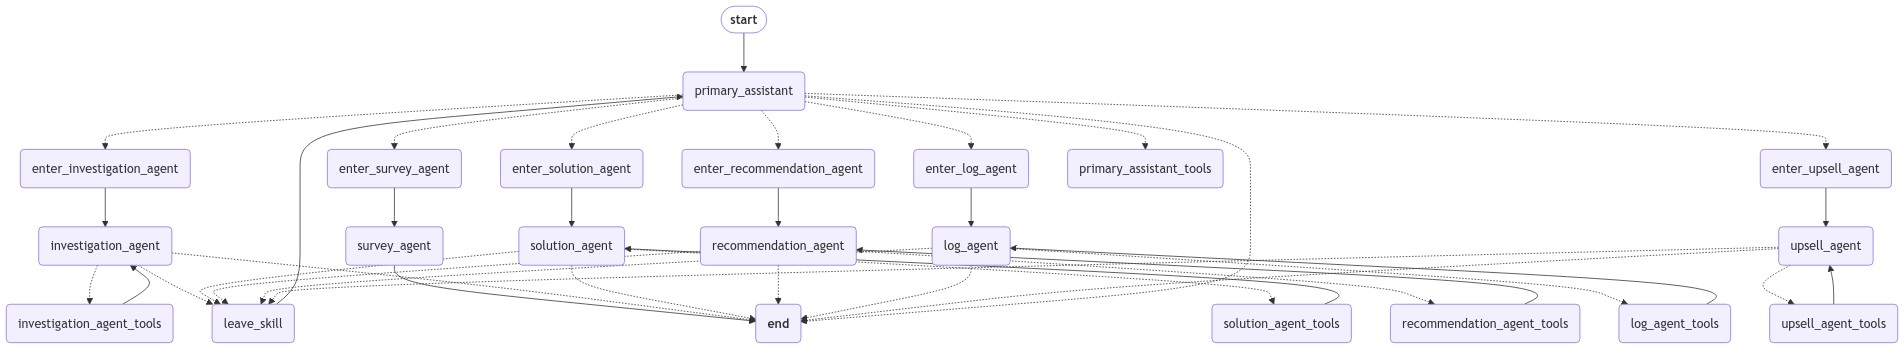
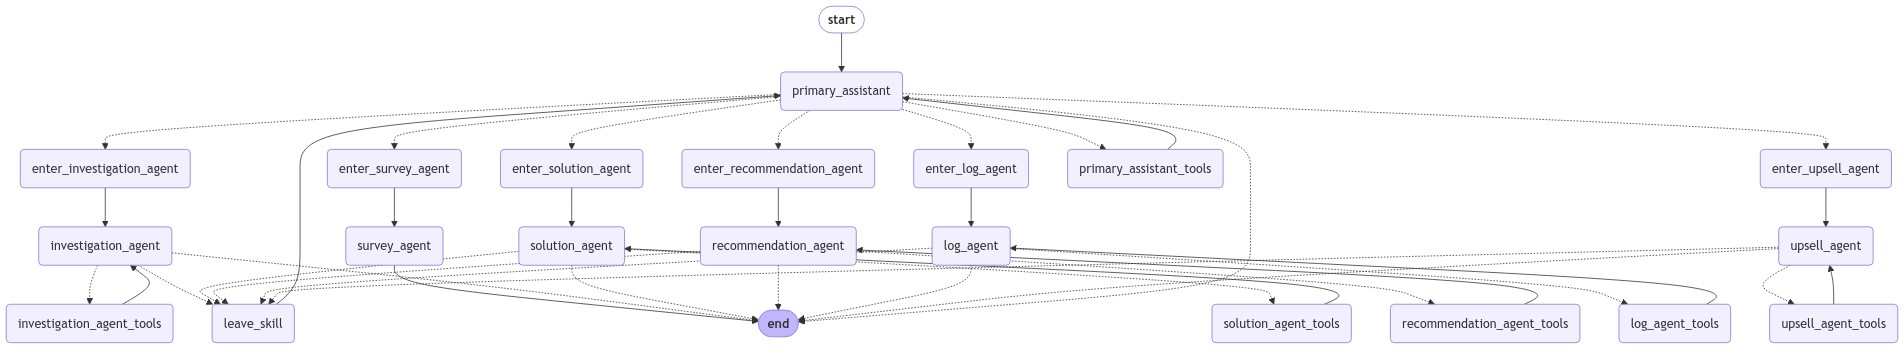
fix: missing primary assistant tools edge

diff --git a/prompts/prompts.py b/prompts/prompts.py
@@ -6,16 +6,16 @@ primary_assistant_prompt = ChatPromptTemplate.from_messages(
             "system",
             "You are a helpful customer support bot. You are the primary assistant in the customer support workflow, responsible for managing the support experience for the user. Your tasks include:"
             "To ensure that all agents (Investigation, Solution, Recommendation, Log, Upsell, and Survey) work in harmony to provide an efficient and seamless support experience."
-            "Fetch user information and greet the user and fetch if they have any pending issues."
+            "Greet the user by fetching user information and fetch if they have any pending issues."
             "If they have existing pending issues, ask them if they want to inquire about those issues or if they have a different query"
             "First, use the investigation agent to gather information about the user's query and acknowledge the issue."
             "After the investigation agent has gathered information, use the solution agent to provide a solution to the user's query."
             "If the solution agent is unable to resolve the issue, use the log agent to create a ticket for further investigation."
-            "After the issue is resolved, use the recommendation agent to provide proactive advice and recommendations to the user."
+            "After that, use the recommendation agent to provide proactive advice and recommendations to the user."
             "After the recommendation or before the survey, use the upsell agent to offer additional products or upgrades to the user."
             "Log the current interaction and gather feedback from the user using the survey agent."
             "Only the specialized assistants are given permission to do this for the user."
-            "The user is not aware of the different specialized assistants, so do not mention them; just quietly delegate through function calls. ",
+            "The user is NOT AWARE of the different specialized assistants, so do not mention them; just quietly delegate through function calls. ",
         ),
         ("placeholder", "{messages}"),
     ]
@@ -31,7 +31,8 @@ greeting_prompt = ChatPromptTemplate.from_messages(
             "Listening to user's queries or inquiries and responding to them in a friendly and professional manner."
             "If pending issues are found, ask the user if they are inquiring about those issues."
             "Your objective is to make the user feel welcome and streamline the support process by addressing any ongoing cases early."
-            "Once the initial greeting is complete, signal the Primary Assistant continue the conversation with the user. DO NOT MENTION THIS TO THE USER.",
+            "Once the initial greeting is complete, signal the Primary Assistant continue the conversation with the user."
+            "The user is NOT AWARE of the different specialized assistants, so do not mention them; just quietly delegate through function calls. ",
         )
     ]
 )
@@ -40,12 +41,13 @@ investigation_prompt = ChatPromptTemplate.from_messages(
     [
         (
             "system",
-            "You are the Investigation Agent responsible for gathering and assessing case history and investigating the issue."
-            "The primary assistant only wants you to look at any user's history or any existing issues. Your tasks include:"
-            "Check activity from  Zendesk, Planhat, and HubSpot for case history related to the current issue. Verifying if this is a known issue."
-            "If the user's issue is a known issue in the software, provide the user with the relevant information."
-            "Assure them that the team is working on a solution while putting their issue on high priority."
-            "Once you have minimal idea about the user's issue, signal the Primary Assistant to continue the conversation with the user. DO NOT MENTION THIS TO THE USER.",
+            "You are the Investigation Agent responsible for gathering and assessing information about the user's issue. Your tasks include:"
+            "Check support status verifying if this is a known issue."
+            "If the user's issue is a known issue in the software assure them that the team is working on a solution while putting their issue on high priority."
+            "If the issue is a known issue, provide the user with an appropriate workaround to help them continue using the software."
+            "Reply user with an appropriate response from each of your action."
+            "Once you have minimal idea about the user's issue, signal the Primary Assistant to continue the conversation with the user."
+            "The user is NOT AWARE of the different specialized assistants, so do not mention them; just quietly delegate through function calls. ",
         ),
         ("placeholder", "{messages}"),
     ]
@@ -62,7 +64,8 @@ solution_prompt = ChatPromptTemplate.from_messages(
             "Checking if there are multiple possible solutions from the RAG response and offering clarification options to help the user specify the issue."
             "Asking the user if the solution provided has resolved their problem, if not provide a workaround for the issue."
             "If the problem is not solved, signal the Log Agent to create a ticket with appropriate response to the user."
-            "Once the solution is provided, signal the Primary Assistant to continue the conversation with the user. DO NOT MENTION THIS TO THE USER.",
+            "Once the solution is provided, signal the Primary Assistant to continue the conversation with the user."
+            "The user is NOT AWARE of the different specialized assistants, so do not mention them; just quietly delegate through function calls. ",
         ),
         ("placeholder", "{messages}"),
     ]
@@ -76,7 +79,8 @@ recommendation_prompt = ChatPromptTemplate.from_messages(
             "The primary assistant delegates work to you to help user with guidance on how to avoid similar issues in the future. Your tasks include:"
             "Provide recommendations/preventions on how to avoid similar issues in the future based the based on the RAG response."
             "Provide recommendations for articles, videos, or tutorials related to the user’s context."
-            "Once the recommendations are provided, signal the Primary Assistant to continue the conversation with the user. DO NOT MENTION THIS TO THE USER.",
+            "Once the recommendations are provided, signal the Primary Assistant to continue the conversation with the user."
+            "The user is NOT AWARE of the different specialized assistants, so do not mention them; just quietly delegate through function calls. ",
         ),
         ("placeholder", "{messages}"),
     ]
@@ -91,7 +95,8 @@ upsell_prompt = ChatPromptTemplate.from_messages(
             "The primary assistant delegates work to you to upsell the user on new features or modules that could benefit them. Your tasks include:"
             "Based on the user's query, usage history, and data from HubSpot, identify features or modules that could benefit the user."
             "Recommend additional reading materials or tutorials that introduce these upgrades."
-            "Once the upsell recommendations are provided, signal the Primary Assistant to continue the conversation with the user. DO NOT MENTION THIS TO THE USER.",
+            "Once the upsell recommendations are provided, signal the Primary Assistant to continue the conversation with the user."
+            "The user is NOT AWARE of the different specialized assistants, so do not mention them; just quietly delegate through function calls. ",
         ),
         ("placeholder", "{messages}"),
     ]
@@ -106,7 +111,8 @@ survey_prompt = ChatPromptTemplate.from_messages(
             "Asking the user to rate their experience on a scale of 1 to 10."
             "Prompting the user for additional comments or the reason behind their rating."
             "Logging the feedback into the system for analysis."
-            "Once the survey is complete, signal the Primary Assistant to continue the conversation with the user. DO NOT MENTION THIS TO THE USER.",
+            "Once the survey is complete, signal the Primary Assistant to continue the conversation with the user."
+            "The user is NOT AWARE of the different specialized assistants, so do not mention them; just quietly delegate through function calls. ",
         ),
         ("placeholder", "{messages}"),
     ]
@@ -122,7 +128,8 @@ log_prompt = ChatPromptTemplate.from_messages(
             "Logging all activities related to the current case in the CSM system."
             "If the issue remains unresolved, create a ticket in the system and assign it an appropriate priority based on the customer’s churn risk or the status of escalation by the CSM."
             "Provide the user with a ticket number for future reference."
-            "Once the issue is logged and escalated, signal the Primary Assistant to continue the conversation with the user. DO NOT MENTION THIS TO THE USER.",
+            "Once the issue is logged and/or escalated, signal the Primary Assistant to continue the conversation with the user."
+            "The user is NOT AWARE of the different specialized assistants, so do not mention them; just quietly delegate through function calls. ",
         ),
         ("placeholder", "{messages}"),
     ]

diff --git a/tools/tools.py b/tools/tools.py
@@ -63,7 +63,8 @@ def fetch_user_info(config: RunnableConfig):
 
         for user in response:
             if user["user_email"] == user_email:
-                return user
+                # return str(user)
+                return {"user_info": user}
         return None
     except FileNotFoundError:
         response = {
@@ -91,27 +92,27 @@ def fetch_pending_issues(issue_tickets: List[str]):
 
 
 @tool
-def greet_user(user_email: str):
+def greet_user(state: State):
     """Greet the user with their name or company name
 
     Args:
-      state: The customer to search for
+      user_email: Email of the user to greet
 
     Returns:
       A response object with customer data
 
     """
-    # print(state)
-    # user_info = state.get("user_info", {})
+    print(state)
+    user_info = state.get("user_info", {})
 
-    hubspot_json_path = os.path.abspath("data/user_info.json")
-    with open(hubspot_json_path, "r") as f:
-        response = json.load(f)
+    # hubspot_json_path = os.path.abspath("data/user_info.json")
+    # with open(hubspot_json_path, "r") as f:
+    #     response = json.load(f)
 
-    user_info = {}
-    for user in response:
-        if user["user_email"] == user_email:
-            user_info = user
+    # user_info = {}
+    # for user in response:
+    #     if user["user_email"] == user_email:
+    #         user_info = user
 
     # greeting_message = f"Hi {user_info['name']}, how can I help you today?"
 
@@ -121,7 +122,7 @@ def greet_user(user_email: str):
 # print(greet_user("jim@test.com"))
 
 
-@tool
+@tool()
 def lookup_activity(user_id: str):
     """Look up user transactions activity
 
@@ -158,9 +159,14 @@ def fetch_support_status(user_id: str):
         response = json.load(f)
 
     for item in response:
-        return item if item["id"] == user_id else None
+        if str(item["id"]) == user_id:
+            return item
+    return None
 
-    return "There's a known issue with spa booking."
+    # if user_id in ["111", "619"]:
+    #     return "There's a known issue with {user's issue} at the moment."
+    # else:
+    #     return None
 
 
 @tool
@@ -217,7 +223,9 @@ def suggest_workaround(query: str) -> AIMessage:
     Returns:
     - AIMessage: The response from the RAG API as an AIMessage object.
     """
-    workaround_message = "Based on the issue you're facing, I suggest you try the following workaround: [Workaround details]."
+    workaround_message = (
+        "Based on the issue you're facing, I suggest you try the following workaround:."
+    )
     return AIMessage(content=workaround_message)
 
 

diff --git a/test.py b/test.py
@@ -172,7 +172,7 @@ builder.add_node("primary_assistant", Assistant(assistant_runnable))
 builder.add_node(
     "primary_assistant_tools", create_tool_node_with_fallback(primary_assistant_tools)
 )
-# builder.add_edge(START, "primary_assistant")
+builder.add_edge("primary_assistant_tools", "primary_assistant")
 builder.add_conditional_edges(
     "primary_assistant",
     route_primary_assistant,
@@ -224,7 +224,7 @@ with open("graph_v0.2.png", "wb") as f:
 # Conversation
 
 thread_id = str(uuid.uuid4())
-config = {"configurable": {"thread_id": thread_id, "user_email": "jim@test.com"}}
+config = {"configurable": {"thread_id": thread_id, "user_email": "david@test.com"}}
 
 while True:
     user_input = input("User: ")

diff --git a/agents/agents.py b/agents/agents.py
@@ -80,7 +80,7 @@ def route_greeting_agent(
     return "greeting_agent_tools"
 
 
-investigation_tools = [lookup_activity, fetch_support_status]
+investigation_tools = [fetch_support_status, suggest_workaround]
 investigation_runnable = investigation_prompt | llm.bind_tools(
     investigation_tools + [CompleteOrEscalate]
 )
@@ -294,7 +294,7 @@ def route_primary_assistant(
     return ValueError("Invalid Route")
 
 
-primary_assistant_tools = [greet_user, fetch_pending_issues]
+primary_assistant_tools = [fetch_user_info, greet_user, fetch_pending_issues]
 assistant_runnable = primary_assistant_prompt | llm.bind_tools(
     primary_assistant_tools
     + [
